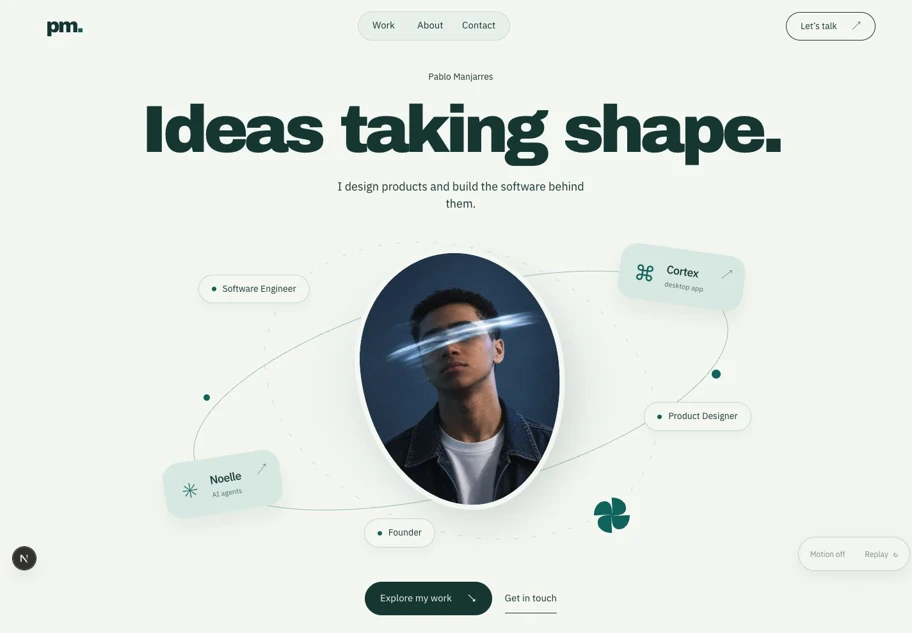
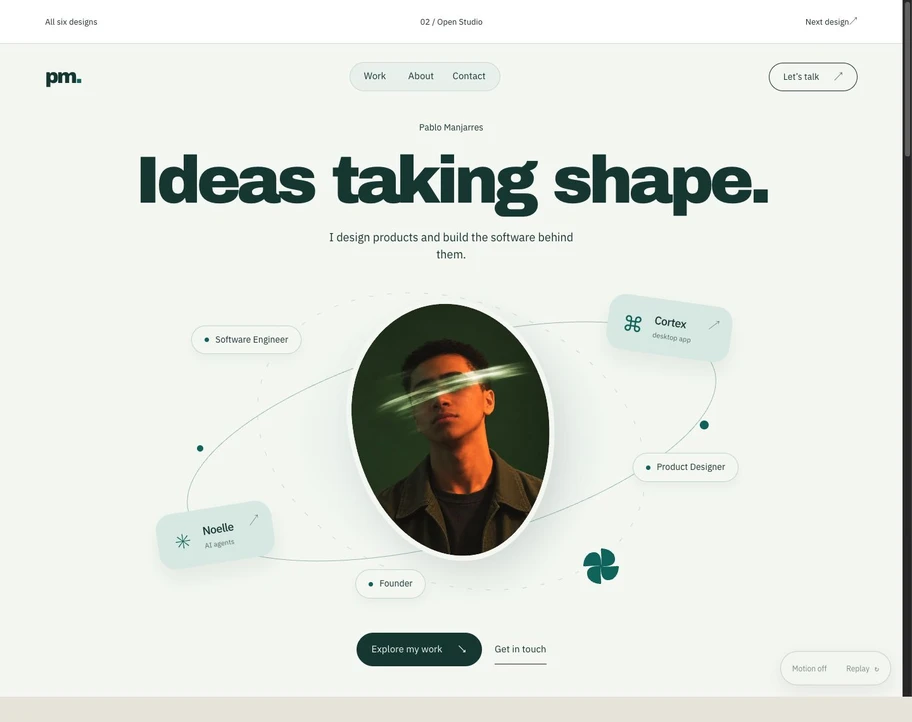
fix(mockups): use green jacket portrait in Open Studio

diff --git a/app/mockups/concepts.ts b/app/mockups/concepts.ts
@@ -1,6 +1,6 @@
 export const concepts = [
   { id: "signal", number: "01", name: "Signal", description: "Open product spreads on warm chalk, a wine profile section, and a direct invitation.", portrait: "forest", paper: "#eef0e9", ink: "#19382c", accent: "#2a583d", panel: "#dde4d6" },
-  { id: "open-studio", number: "02", name: "Open Studio", description: "A green project collage, petrol practice section, and apricot contact ticket.", portrait: "denim", paper: "#f5f7f3", ink: "#183d39", accent: "#146e65", panel: "#dceae5" },
+  { id: "open-studio", number: "02", name: "Open Studio", description: "A green project collage, petrol practice section, and apricot contact ticket.", portrait: "forest", paper: "#f5f7f3", ink: "#183d39", accent: "#146e65", panel: "#dceae5" },
   { id: "blueprint", number: "03", name: "Blueprint", description: "Cobalt laptop studies, layered product responsibilities, and a calendar desk.", portrait: "denim", paper: "#edf2f8", ink: "#10283e", accent: "#204faf", panel: "#dce6f2" },
   { id: "after-hours", number: "04", name: "After Hours", description: "Product screenings, spotlighted roles, and a cinematic invitation to talk.", portrait: "hoodie", paper: "#17191b", ink: "#f1f2ed", accent: "#bfd6d0", panel: "#23282b" },
   { id: "green-room", number: "05", name: "Green Room", description: "Forest project plots, skills on sand, and a curved invitation to work together.", portrait: "forest", paper: "#f0f2e9", ink: "#183429", accent: "#355741", panel: "#dfe6d7" },

diff --git a/app/mockups/designs/OpenStudio.tsx b/app/mockups/designs/OpenStudio.tsx
@@ -33,7 +33,7 @@ export default function OpenStudio() {
             <circle cx="143" cy="301" r="5" />
             <circle cx="939" cy="264" r="7" />
           </svg>
-          <figure className={styles.portraitWrap} data-enter="clip"><Portrait portrait="denim" /></figure>
+          <figure className={styles.portraitWrap} data-enter="clip"><Portrait portrait={concepts[1].portrait} /></figure>
           <div className={styles.roles} aria-label="What I do">
             {profile.roles.map(role => <span key={role} className={styles.role} data-enter="pop"><i aria-hidden />{role}</span>)}
           </div>
